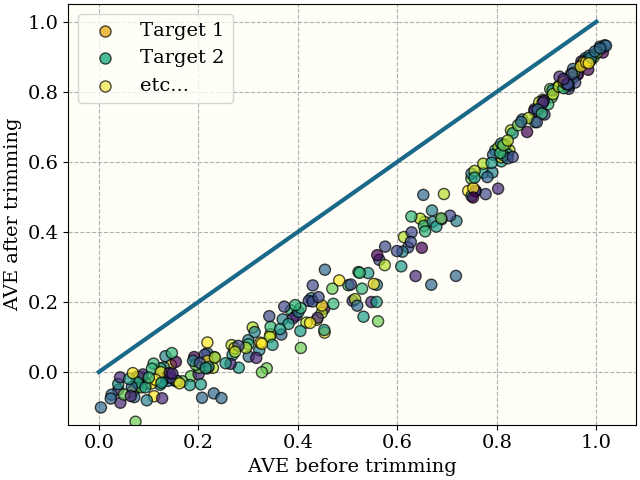
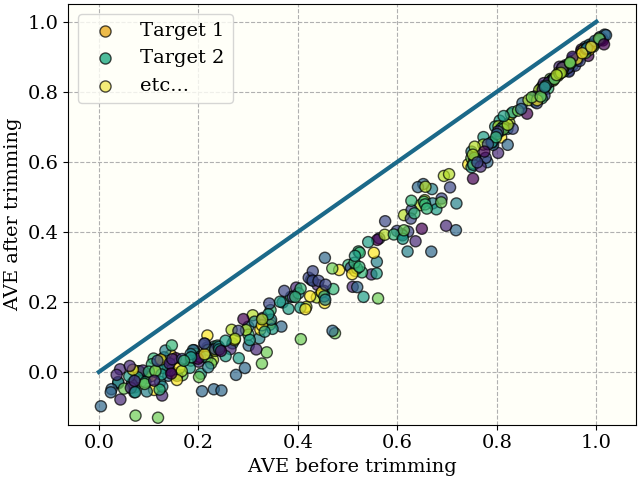
changed number of replicate_AVE iterations to 400; changed trim size to 0.2

Changed region(s): [[0.1562, 0.0625, 0.9688, 0.9062]]

diff --git a/code/replicate_AVE.py b/code/replicate_AVE.py
@@ -45,7 +45,7 @@ sizes_before_trim = list()
 sizes_after_trim = list()
 
 
-for _ in tqdm(range(300)):
+for _ in tqdm(range(400)):
     #choose a random target:
     idx = np.random.choice(y_.shape[1])
 
@@ -77,13 +77,13 @@ for _ in tqdm(range(300)):
     new_inactives_train_idx = utils.trim(inactive_dmat, 
                                        inactives_train_idx, 
                                        inactives_test_idx,
-                                             fraction_to_trim=0.3)
+                                             fraction_to_trim=0.2)
     #then trim from the actives/train matrix:
     active_dmat = distance_matrix[actives_test_idx]
     new_actives_train_idx = utils.trim(active_dmat,
                                     actives_train_idx, 
                                     actives_test_idx,
-                                       fraction_to_trim=0.3)
+                                       fraction_to_trim=0.2)
 
     #now calculate AVE with this new split:
     ave= utils.calc_AVE_quick(distance_matrix, new_actives_train_idx, actives_test_idx, new_inactives_train_idx, inactives_test_idx)
